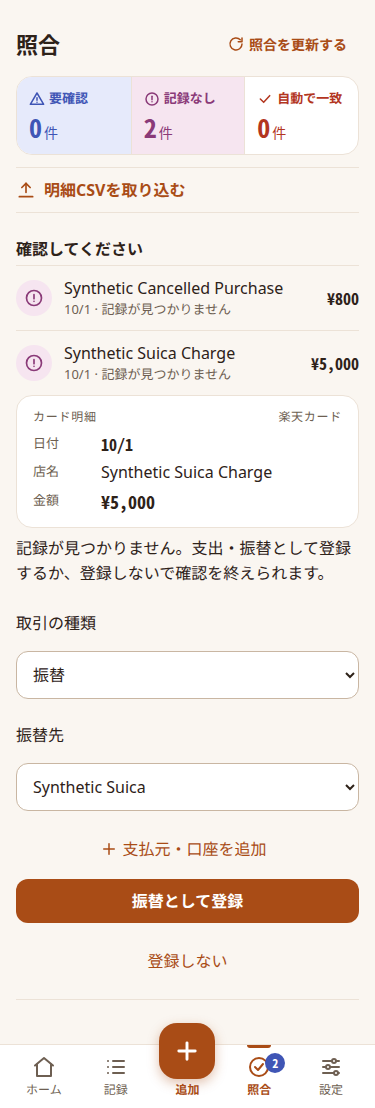
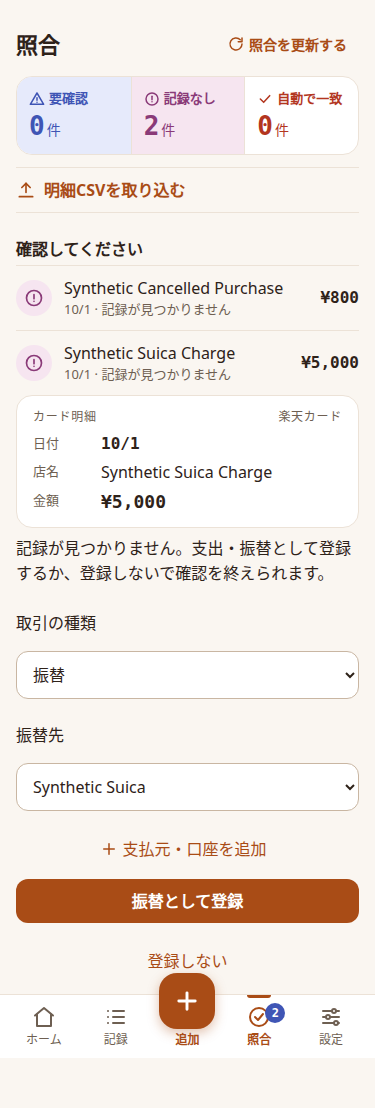
feat: sort reconciliation categories by usage in a compact sheet

diff --git a/apps/pwa/src/local-ui.ts b/apps/pwa/src/local-ui.ts
@@ -14,7 +14,7 @@ import { pendingReceiptRow, recordRow } from './record-row';
 import { renderRecordGroups, type RecordKindFilter } from './records-list';
 import { compactAddButton, dateShortcuts, entryRow, formActions, optionalFields, recurrenceRow, shortLabel } from './entry-form';
 import { scheduleFromEntry } from './entry-recurrence';
-import { categoryRow, lastUsedCategory, recentCategoryUsage } from './category-picker';
+import { categoryRow, expenseCategoryUsage, lastUsedCategory, recentCategoryUsage } from './category-picker';
 import { icon } from './ui-icons';
 import { describeReceiptWarnings, type ReceiptWarningTarget } from './receipt-warnings';
 import { createReadingProgress } from './receipt-reading-progress';
@@ -1290,8 +1290,8 @@ export async function initializeLocalUi(options: { openAccount: () => void }) {
     const importer = await renderStatementImporter(true);
     ensureScreen(screen);
     view.append(importer);
-    const [allStatements, allReceipts, allAccounts, expenseCategories] = await Promise.all([
-      statements.list(), receipts.list(), ledger.listAccounts(), ledger.listExpenseCategories(),
+    const [allStatements, allReceipts, allAccounts, expenseCategories, categoryUsage] = await Promise.all([
+      statements.list(), receipts.list(), ledger.listAccounts(), ledger.listExpenseCategories(), expenseCategoryUsage(ledger),
     ]);
     const accountsById = new Map(allAccounts.map(account => [account.id, account]));
     const list = document.createElement('ul'); list.className = 'review-list';
@@ -1367,10 +1367,12 @@ export async function initializeLocalUi(options: { openAccount: () => void }) {
           const excluded = document.createElement('input'); excluded.type = 'checkbox'; excluded.id = `excluded-${statement.id}`;
           const excludedLabel = fieldLabel('label', '支出の計算に含めない', excluded.id);
           const exclusionRow = document.createElement('div'); exclusionRow.className = 'entry-row spending-exclusion'; exclusionRow.append(excluded, excludedLabel);
+          const categoryUi = categoryRow({ select: category, label: categoryLabel, usageReady: Promise.resolve(categoryUsage) });
+          categoryUi.sheet.classList.add('reconciliation-category-sheet');
           body.append(text('p', '記録が見つかりません。支出・振替として登録するか、登録しないで確認を終えられます。'), fieldLabel('label', '取引の種類', kind.id), kind,
-            categoryLabel, category, destinationLabel, destination, exclusionRow);
-          category.after(createMasterShortcut({ ledger, request: { kind: 'category', isIncome: false }, origin: {
-            field: category, beforeOpen: async () => {}, onCreated: async id => {
+            categoryUi.row, destinationLabel, destination, exclusionRow);
+          categoryUi.sheet.querySelector('.sheet-body')!.append(createMasterShortcut({ ledger, request: { kind: 'category', isIncome: false }, origin: {
+            field: category, beforeOpen: async () => { categoryUi.sheet.close(); }, onCreated: async id => {
               const previous = category.value;
               const refreshed = await ledger.listExpenseCategories();
               category.replaceChildren(new Option('カテゴリを選択してください', ''), ...refreshed.map(c => new Option(c.name, c.id)));
@@ -1387,11 +1389,10 @@ export async function initializeLocalUi(options: { openAccount: () => void }) {
           }, false);
           const syncKind = () => {
             const transfer = kind.value === 'transfer';
-            category.hidden = categoryLabel.hidden = transfer; category.required = !transfer;
+            categoryUi.row.hidden = transfer;
             destination.hidden = destinationLabel.hidden = !transfer; destination.required = transfer;
             exclusionRow.hidden = transfer;
             register.textContent = transfer ? '振替として登録' : '支出として登録';
-            const shortcut = category.nextElementSibling; if (shortcut instanceof HTMLButtonElement) shortcut.hidden = transfer;
           };
           kind.addEventListener('change', syncKind); syncKind();
           destination.after(createMasterShortcut({ ledger, request: { kind: 'account' }, origin: {

diff --git a/apps/pwa/src/category-picker.ts b/apps/pwa/src/category-picker.ts
@@ -17,6 +17,18 @@ export async function recentCategoryUsage(ledger: RecentTransactions) {
   return usage;
 }
 
+/** Count each category once per expense, including categories of split items. */
+export async function expenseCategoryUsage(ledger: {
+  getSearchTransactions(): Promise<Array<{ transaction: { kind: string }; categoryIds: string[] }>>;
+}) {
+  const usage = new Map<string, number>();
+  for (const row of await ledger.getSearchTransactions()) {
+    if (row.transaction.kind !== 'expense') continue;
+    for (const id of new Set(row.categoryIds)) usage.set(id, (usage.get(id) ?? 0) + 1);
+  }
+  return usage;
+}
+
 /** usage: recent use per category; frequently used categories come first once it resolves. */
 /** collapse: fold long lists behind "すべて表示"; the category sheet is already the full list, so it shows everything. */
 export function enhanceCategorySelect(select: HTMLSelectElement, label: HTMLLabelElement, usageReady: Promise<ReadonlyMap<string, number>> = Promise.resolve(new Map()), collapse = true) {

diff --git a/apps/pwa/src/style.css b/apps/pwa/src/style.css
@@ -329,6 +329,9 @@ button.entry-row-link { width: 100%; min-height: 52px; margin: 0; padding: var(-
 button.entry-row-link .icon { width: 18px; height: 18px; color: var(--muted); fill: none; stroke: currentColor; stroke-width: 2; stroke-linecap: round; stroke-linejoin: round; }
 .receipt-total-check { flex: none; font-size: .8125rem; font-weight: 700; white-space: nowrap; }
 .category-sheet .category-picker { margin-bottom: var(--space-3); }
+.reconciliation-category-sheet .sheet-body { padding-bottom: calc(var(--space-3) + env(safe-area-inset-bottom)); }
+.reconciliation-category-sheet .category-picker { gap: var(--space-1); }
+.reconciliation-category-sheet .category-choice { min-height: 64px; }
 
 /* Settings: docs/UX.md 設定 */
 .settings-group-title { margin: var(--space-5) var(--space-1) var(--space-2); font-size: .8125rem; font-weight: 700; color: var(--muted); }

diff --git a/src/lib/category-picker.test.ts b/src/lib/category-picker.test.ts
@@ -1,0 +1,15 @@
+import { describe, expect, it } from 'vitest';
+import { expenseCategoryUsage } from '../../apps/pwa/src/category-picker';
+
+describe('expense category menu usage', () => {
+  it('counts categories once per expense, includes split categories, and ignores transfers and income', async () => {
+    const usage = await expenseCategoryUsage({ getSearchTransactions: async () => [
+      { transaction: { kind: 'expense' }, categoryIds: ['food'] },
+      { transaction: { kind: 'expense' }, categoryIds: ['food', 'other', 'food'] },
+      { transaction: { kind: 'expense' }, categoryIds: [] },
+      { transaction: { kind: 'transfer' }, categoryIds: ['other'] },
+      { transaction: { kind: 'income' }, categoryIds: ['other'] },
+    ] });
+    expect([...usage]).toEqual([['food', 2], ['other', 1]]);
+  });
+});
